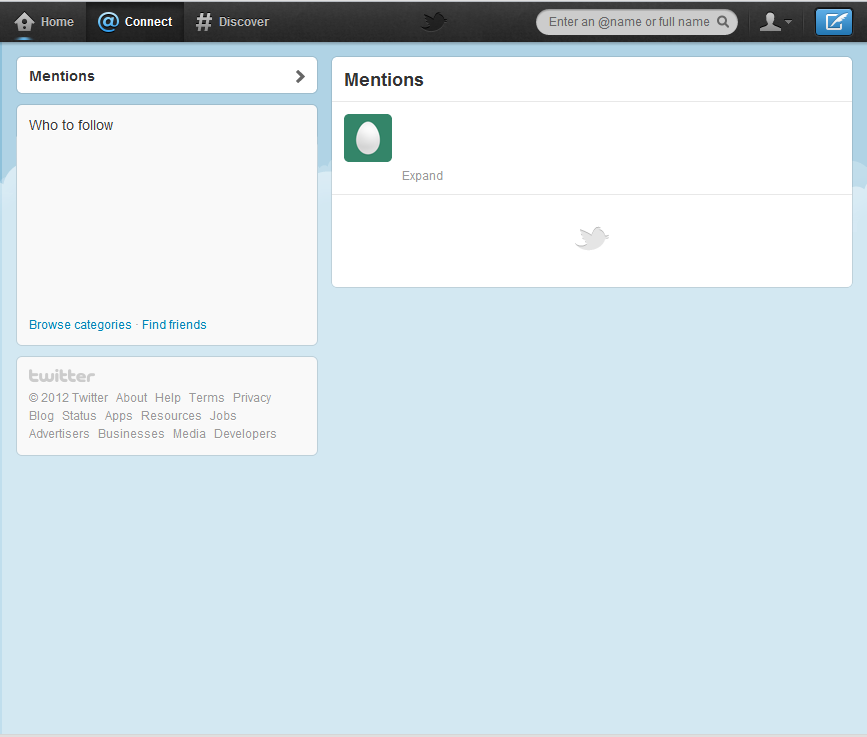
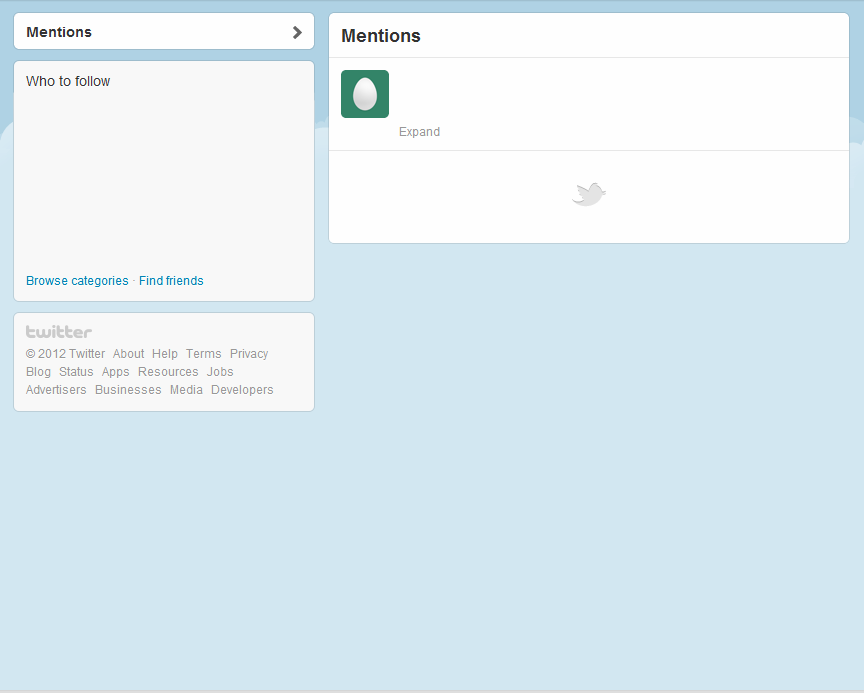
connect page added

Changed region(s): [[0.0, 0.0, 1.0, 0.6364], [0.9688, 0.1818, 1.0, 0.2424]]

diff --git a/public/stylesheets/experiment.css b/public/stylesheets/experiment.css
@@ -534,3 +534,35 @@ textarea#user_search{
   width: 100%;
   height: 40px;
 }
+
+#connect_button{
+
+  left:758px; top:0px;
+  margin:0 auto;
+  position: absolute;
+
+}
+#connect_seite{
+
+  background-image: url('../images/connect.png');
+  width:100%;
+  height: 830px;  
+  left:0px; top:0px;
+  margin:0 auto;
+  position: absolute;
+
+}
+
+#connect_field{
+
+
+  background-image:url('../images/new_tweet_seite.png');
+  background-repeat:no-repeat; 
+  background-position: left top;
+  position:relative;
+  left:150px; top:90px;
+  width: 860px;
+  height: 100%;
+  margin:0 auto;
+  color: black;
+}

diff --git a/public/javascripts/application.js b/public/javascripts/application.js
@@ -94,3 +94,7 @@ document.observe('click', function(e, el) {
             }
         });
 
+//new PeriodicalExecuter(function()
+  // {new Ajax.Updater('minutes', 'minutes_update')}, 5)
+
+

diff --git a/app/controllers/users_controller.rb b/app/controllers/users_controller.rb
@@ -60,6 +60,8 @@ class UsersController < ApplicationController
       session[:user_params].deep_merge!({:seen_retweet => @user.seen_retweet})
     end
     
+    
+    
     @user.current_step = session[:user_step]    
   end
 
@@ -120,7 +122,7 @@ class UsersController < ApplicationController
          }
     end    
   end
-  
+
   
   def start_measure    
     session[:user_params].deep_merge!({:in_time => Time.now})    
@@ -158,6 +160,15 @@ class UsersController < ApplicationController
     
   end
   
+  def minutes_update
+    respond_to do |format|
+      format.js {
+              render(:update) do |page|
+                page.replace_html 'minutes', 'minutes'
+              end
+            }
+    end    
+  end
 
   
   def new_tweet
@@ -165,6 +176,18 @@ class UsersController < ApplicationController
       format.js {
               render(:update) do |page|
                 page.show 'new_tweet_seite'
+              end
+            }
+    end
+    
+  end
+  
+  def connect
+    respond_to do |format|
+      format.js {
+              render(:update) do |page|
+                page.replace_html 'connect_button',  image_tag('../images/connect_clicked.png');
+                page.show 'connect_seite'
               end
             }
     end

diff --git a/app/helpers/application_helper.rb b/app/helpers/application_helper.rb
@@ -24,8 +24,10 @@ module ApplicationHelper
     
     end
     
-    def minutes
-      @user.experiment_time
-    end
-
+   
+  def minutes
+ 
+  @user.experiment_time.to_i/60
+   
+  end
 end
